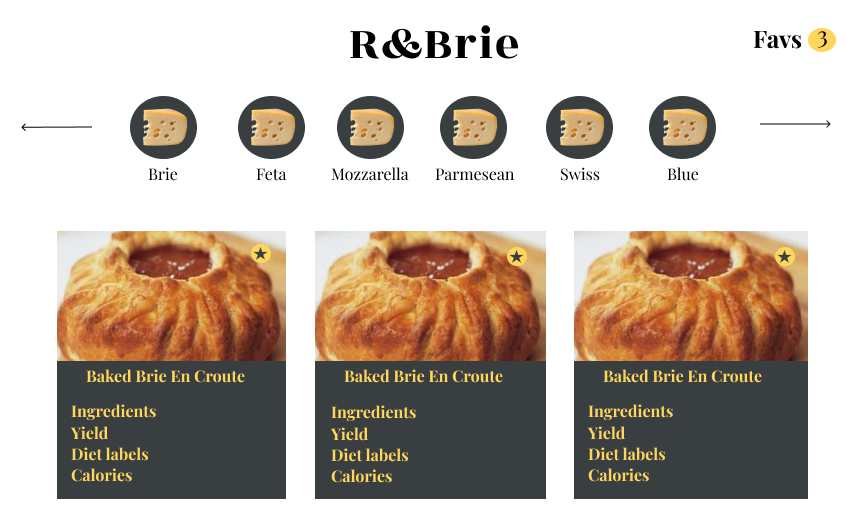
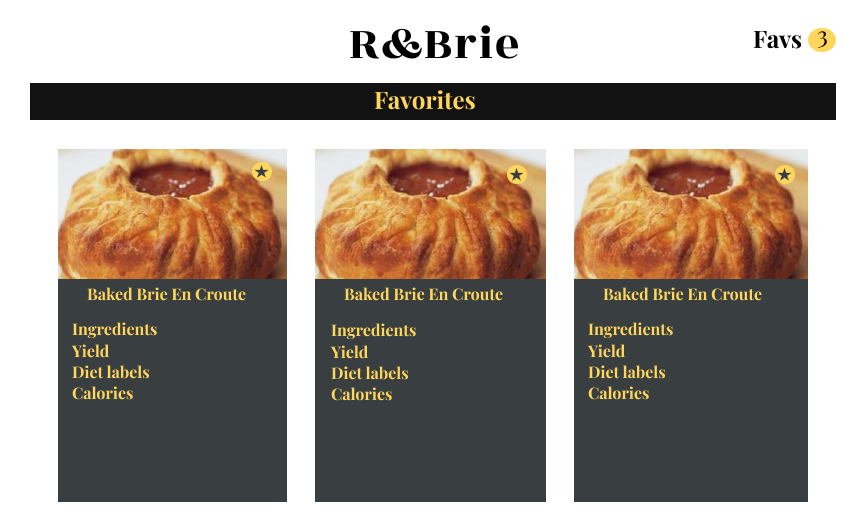
add fetchRecipes thunk and update favorites wireframes

diff --git a/src/thunks/fetchRecipes.js b/src/thunks/fetchRecipes.js
@@ -3,6 +3,17 @@ import { addRecipes, hasErrored, isLoading } from '../actions';
 export const fetchRecipes = url => {
   return async dispatch => {
     try {
-    } catch (err) {}
+      dispatch(isLoading(true));
+      const response = await fetch(url);
+      if (!response.ok) {
+        throw Error(response.statusText);
+      }
+      dispatch(isLoading(false));
+      const data = response.json();
+      const recipes = data.hits;
+      dispatch(addRecipes(recipes));
+    } catch (error) {
+      dispatch(hasErrored(error.message));
+    }
   };
 };
